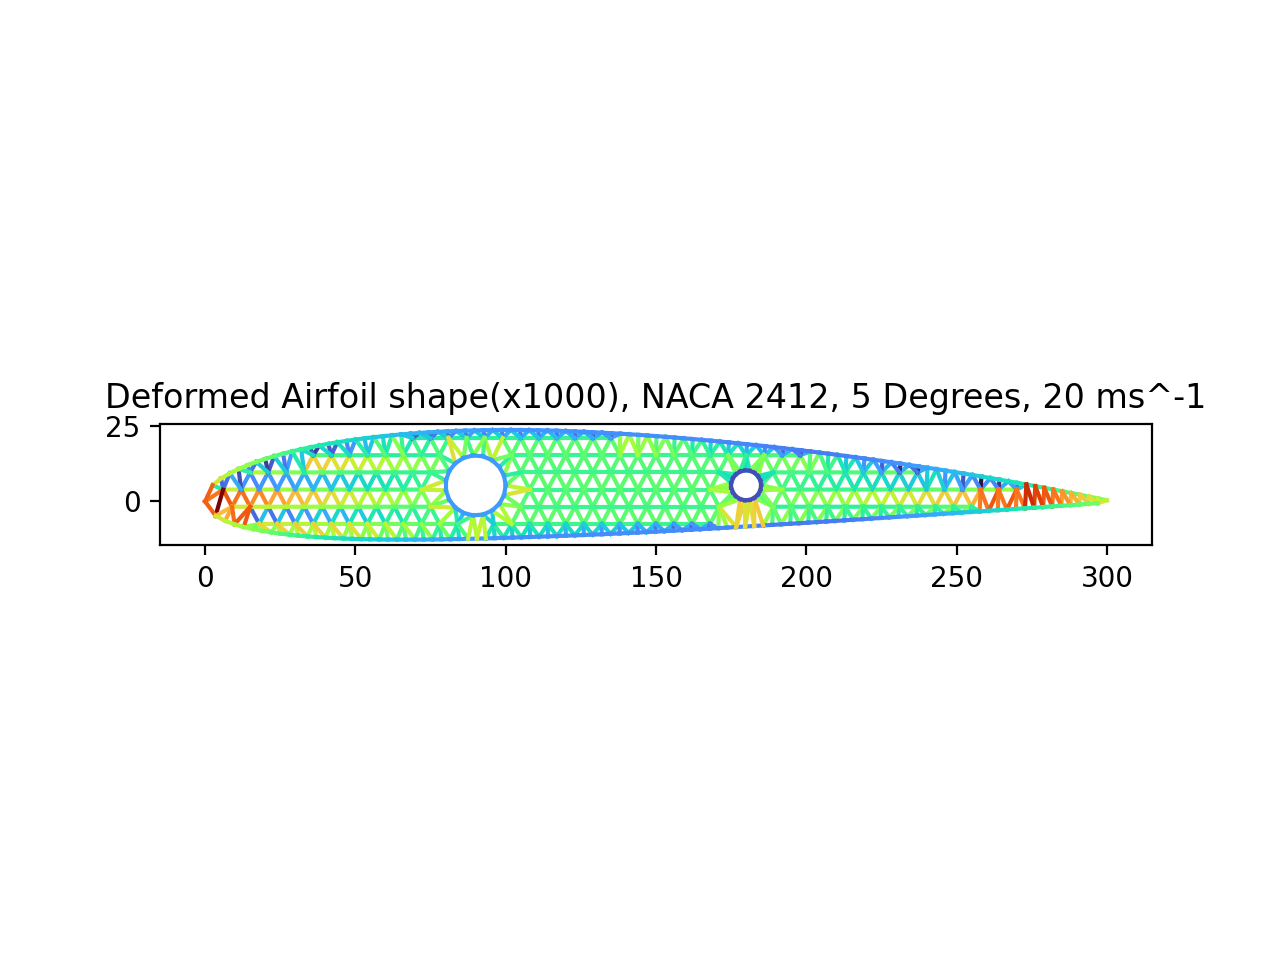
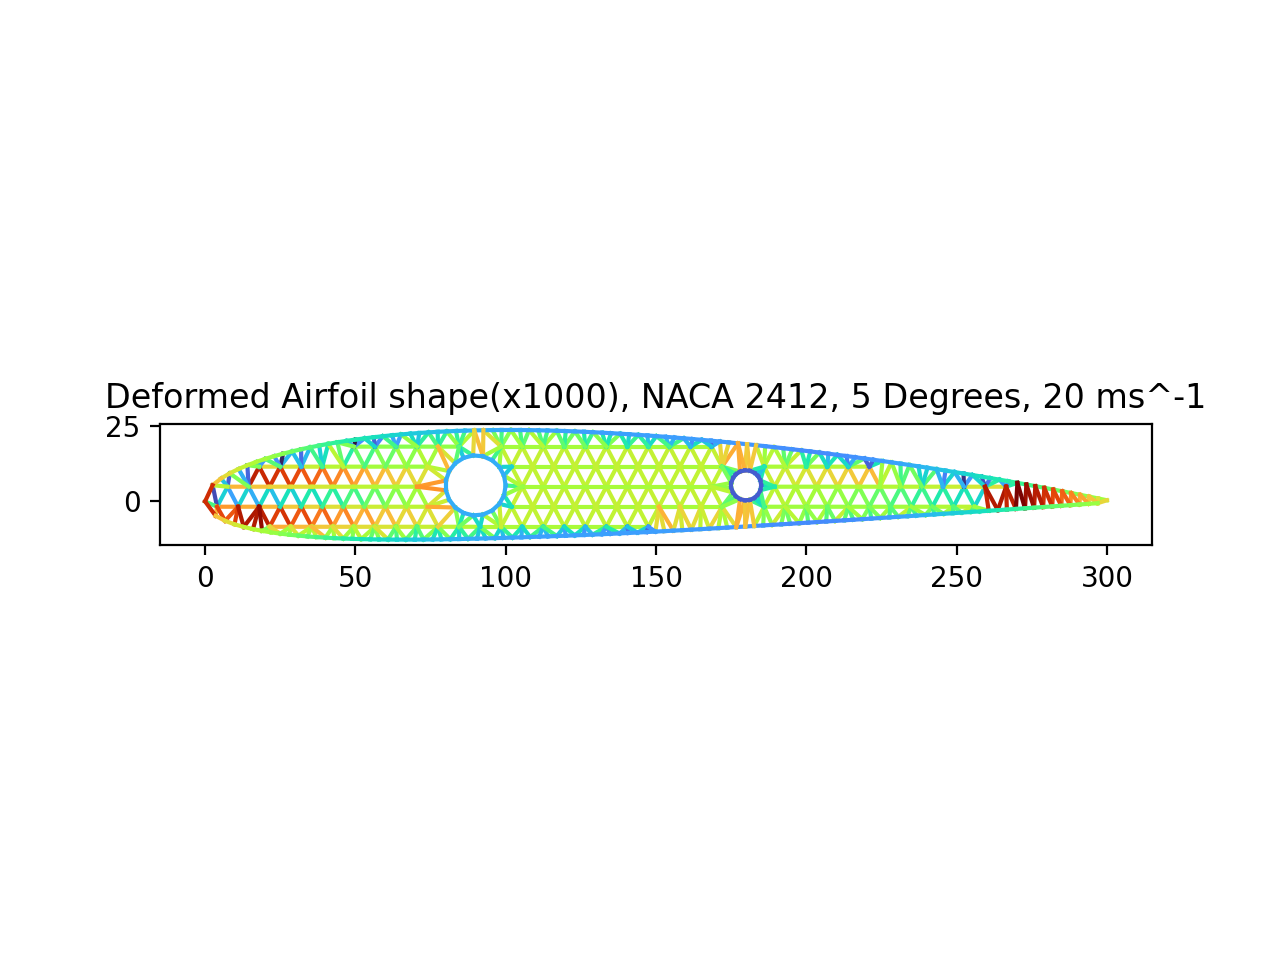
inital branch commit

Changed region(s): [[0.1562, 0.4375, 0.875, 0.5625]]

diff --git a/Generative-Slicer.py b/Generative-Slicer.py
@@ -13,26 +13,25 @@ from matplotlib.lines import Line2D
 from scipy.optimize import curve_fit
 import aeropy.xfoil_module as xf
 from scipy import interpolate
-import math, time, random, numba
+import math, time, random
 from tqdm import tqdm
 from math import gcd, ceil
 import itertools
 from scipy import sparse
 import numpy as np
-import cvxpy as cvx
 import matplotlib.pyplot as plt
 from shapely.geometry import Point, LineString, Polygon
 from tqdm import tqdm
-from numba import jit
 import cProfile
+import cupy as cy
 
 class main():
     def __init__(self):
-        self.grid_resolution = 6#mm
+        self.grid_resolution = 7#mm
         self.Flow_Velocity = 20
         self.Angle_of_Attack = 5
         self.foil_number = '2412'
-        self.DOF = 2                  #2D Truss
+        self.DOF = 3                  #2D Truss
         self.E = 4.107e9
         self.A = 4e-4
         self.G = 0.35e5
@@ -326,34 +325,25 @@ class main():
     def Truss_Analysis(self, verbose):
         '''This thing works, dont touch it, its basicly black magic'''
         self.NE = len(self.filtered_connections)           #Number of bars
-        self.DOFCON = np.ones_like(self.all_points).astype(int)
-        self.Ur = []
-        self.Forces = np.zeros_like(self.all_points)
-        for index in range(self.bounding_polygon_indecies[0], self.bounding_polygon_indecies[1]+1):
-            self.Forces[index,:] = self.forces[index-self.bounding_polygon_indecies[1]]
-        for indexs in self.hole_node_indecies:
-            for i in range(indexs[0], indexs[1]+1):
-                self.DOFCON[i,:] = 0
-                self.Ur.append(0)
-                self.Ur.append(0)
-                #self.Ur.append(0)
-        #Structural analysis
         self.d = self.all_points[self.filtered_connections[:,1],:] - self.all_points[self.filtered_connections[:,0],:]
         self.length = np.sqrt((np.square(self.d)).sum(axis=1))
         self.theta = self.d.T/self.length
+        print(self.theta[0])
+        print(self.d[0])
+        print(self.theta.T[0])
         self.a = np.concatenate((-self.theta.T,self.theta.T), axis=1)
+        print(self.a[0])
+        input()
         self.Global_Stiffness = np.zeros([self.NDOF,self.NDOF])
         '''Now parsing over each element to add the mto the global stiffness matrix'''
         for index in range(self.NE):
             self.aux  = 2*self.filtered_connections[index,:]
             self.indecies = np.r_[self.aux[0]:self.aux[0]+2,self.aux[1]:self.aux[1]+2]
-            self.ES = np.dot(self.a[index][np.newaxis].T*self.E*self.A,self.a[index][np.newaxis])/self.length[index]
+            self.ES = np.dot(self.a[index][np.newaxis].T*((self.E*self.A)/self.length[index]),self.a[index][np.newaxis])
             self.Global_Stiffness[np.ix_(self.indecies,self.indecies)] = self.Global_Stiffness[np.ix_(self.indecies,self.indecies)] + self.ES
-        self.freeDOF = self.DOFCON.flatten().nonzero()[0]
         self.supportDOF = (self.DOFCON.flatten() == 0).nonzero()[0]
         self.Kff = self.Global_Stiffness[np.ix_(self.freeDOF,self.freeDOF)]
-        self.Pf = self.Forces.flatten()[self.freeDOF]
-        self.Uf = np.linalg.solve(self.Kff,self.Pf)
+        self.Uf = cy.linalg.solve(cy.asarray(self.Kff),cy.asarray(self.Pf)).get()
         self.U = self.DOFCON.astype(float).flatten()
         self.U[self.freeDOF] = self.Uf
         self.U[self.supportDOF] = self.Ur
@@ -381,31 +371,28 @@ class main():
             self.Truss_Analysis(False)
 
 
-            '''Making a video of the optimisation'''
-            self.Strain = self.displaced_s_length-self.original_s_length
-            self.min_strain = np.min(self.Strain)
-            self.max_strain = np.max(self.Strain)
-            self.strain_range = self.max_strain-self.min_strain
+            #'''Making a video of the optimisation'''
+            #self.Strain = self.displaced_s_length-self.original_s_length
+            #self.min_strain = np.min(self.Strain)
+            #self.max_strain = np.max(self.Strain)
+            #self.strain_range = self.max_strain-self.min_strain
 
-            self.fig = plt.figure()
-            self.ax = self.fig.add_subplot(111)
-            self.Displacement_points = self.all_points+self.U
-            for i, connection in enumerate(self.working_lattice):
-                self.index_strain = self.Strain[i]
-                self.colour_encoding = (self.index_strain-self.min_strain)/self.strain_range
-                self.colour = self.cmap(self.colour_encoding)
-                self.start_location  = self.Displacement_points[int(connection[0])]
-                self.end_location  = self.Displacement_points[int(connection[1])]
-                self.ax.plot(self.start_location[0],self.start_location[1])
-                self.ax.plot(self.end_location[0],self.end_location[1])
-                self.line = Line2D([self.start_location[0],self.end_location[0]],[self.start_location[1],self.end_location[1]],c = self.colour)
-                self.ax.add_line(self.line)
-            plt.title("Deformed Airfoil shape(x1000), NACA 2412, 5 Degrees, 20 ms^-1")
-            plt.gca().set_aspect('equal')
-            plt.savefig('C:\\Users\\rollo\\Documents\\GitHub\\Generative-Slicer\\Optimisation video\\'+str(self.frame_number)+'.png', dpi = 200)
-
-
-
+            #self.fig = plt.figure()
+            #self.ax = self.fig.add_subplot(111)
+            #self.Displacement_points = self.all_points+self.U
+            #for i, connection in enumerate(self.working_lattice):
+            #    self.index_strain = self.Strain[i]
+            #    self.colour_encoding = (self.index_strain-self.min_strain)/self.strain_range
+            #    self.colour = self.cmap(self.colour_encoding)
+            #    self.start_location  = self.Displacement_points[int(connection[0])]
+            #    self.end_location  = self.Displacement_points[int(connection[1])]
+            #    self.ax.plot(self.start_location[0],self.start_location[1])
+            #    self.ax.plot(self.end_location[0],self.end_location[1])
+            #    self.line = Line2D([self.start_location[0],self.end_location[0]],[self.start_location[1],self.end_location[1]],c = self.colour)
+            #    self.ax.add_line(self.line)
+            #plt.title("Deformed Airfoil shape(x1000), NACA 2412, 5 Degrees, 20 ms^-1")
+            #plt.gca().set_aspect('equal')
+            #plt.savefig('C:\\Users\\rollo\\Documents\\GitHub\\Generative-Slicer\\Optimisation video\\'+str(self.frame_number)+'.png', dpi = 200)
 
             self.memberlengths = self.all_points[self.working_lattice[:,1],:] - self.all_points[self.working_lattice[:,0],:]
             self.total_length = np.sum(np.sqrt((self.memberlengths**2).sum(axis=1)))
@@ -496,8 +483,8 @@ class main():
                     self.ax.plot(self.end_location[0],self.end_location[1])
                     self.line = Line2D([self.start_location[0],self.end_location[0]],[self.start_location[1],self.end_location[1]],c = 'red')
                     self.ax.add_line(self.line)
-                self.start_location  = self.all_points[int(self.valid_changes[self.index_min_cost,0])]
-                self.end_location  = self.all_points[int(self.valid_changes[self.index_min_cost,1])]
+                self.start_location = self.all_points[int(self.valid_changes[self.index_min_cost,0])]
+                self.end_location = self.all_points[int(self.valid_changes[self.index_min_cost,1])]
                 self.ax.plot(self.start_location[0],self.start_location[1])
                 self.ax.plot(self.end_location[0],self.end_location[1])
                 self.line = Line2D([self.start_location[0],self.end_location[0]],[self.start_location[1],self.end_location[1]], c='pink')
@@ -583,14 +570,7 @@ class main():
         for sp in ax.spines.values():
             sp.set_visible(False)
 
-    def Remove_extranious_members(self):
-        '''The ontimised lattice has a few pointless members, we can remove these to imporve the optimisation'''
-        pass
-
-
     def mainloop(self):
-
-        self.start_time = time.time()
         self.foil = self.gen_naca(self.foil_number)
         self.third_chord = self.find_chamber_point(0.3, self.foil)
         self.three_quater_chord = self.find_chamber_point(0.6, self.foil)
@@ -599,6 +579,20 @@ class main():
                                                             np.array([[ self.three_quater_chord[0]*300+5*np.cos(theta), self.three_quater_chord[1]*300+5*np.sin(theta)] for theta in np.linspace(0, 2*np.pi,20)])[:-1]]))
         self.all_points = self.all_points.astype(np.float64)
         self.forces = self.Generate_loading_data(self.foil, 0.2)
+        '''Pre-processing as much as possible'''
+        self.DOFCON = np.ones_like(self.all_points).astype(int)
+        self.Ur = []
+        self.Forces = np.zeros_like(self.all_points)
+        for index in range(self.bounding_polygon_indecies[0], self.bounding_polygon_indecies[1]+1):
+            self.Forces[index,:] = self.forces[index-self.bounding_polygon_indecies[1]]
+        for indexs in self.hole_node_indecies:
+            for i in range(indexs[0], indexs[1]+1):
+                self.DOFCON[i,:] = 0
+                self.Ur.append(0)
+                self.Ur.append(0)
+
+        self.freeDOF = self.DOFCON.flatten().nonzero()[0]
+        self.Pf = self.Forces.flatten()[self.freeDOF]
 
         self.NN = len(self.all_points)          #Number of nodes
         self.NDOF = self.DOF*self.NN            #Total number of degree of freedom
